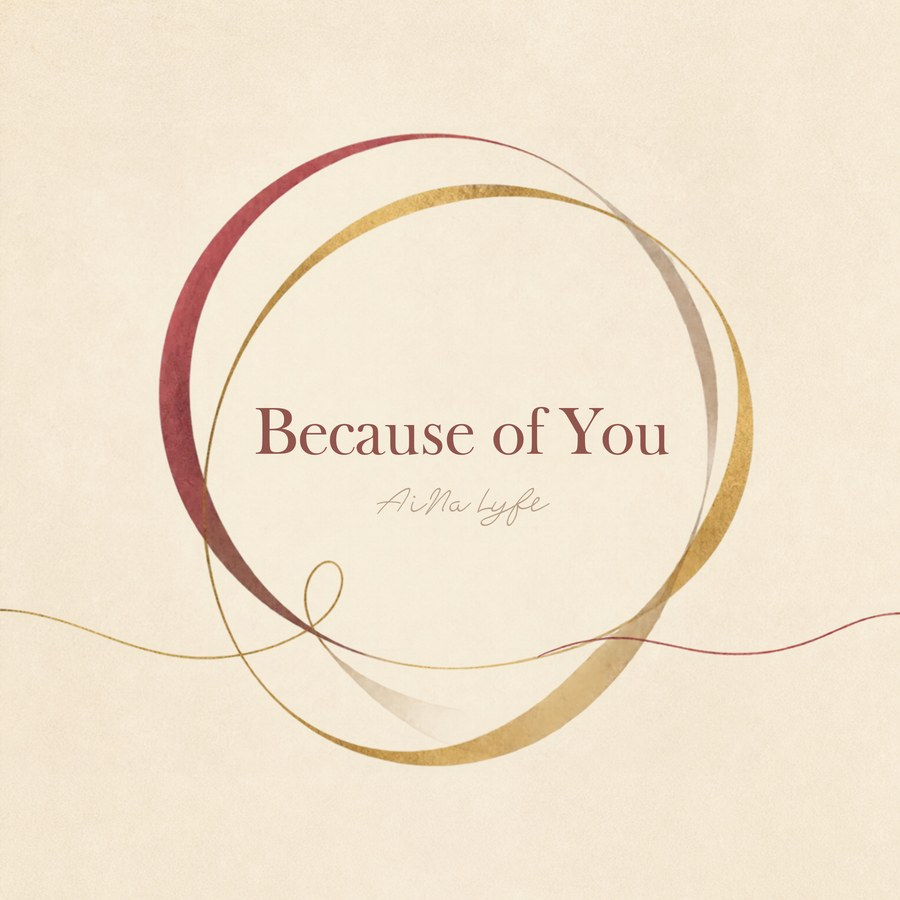
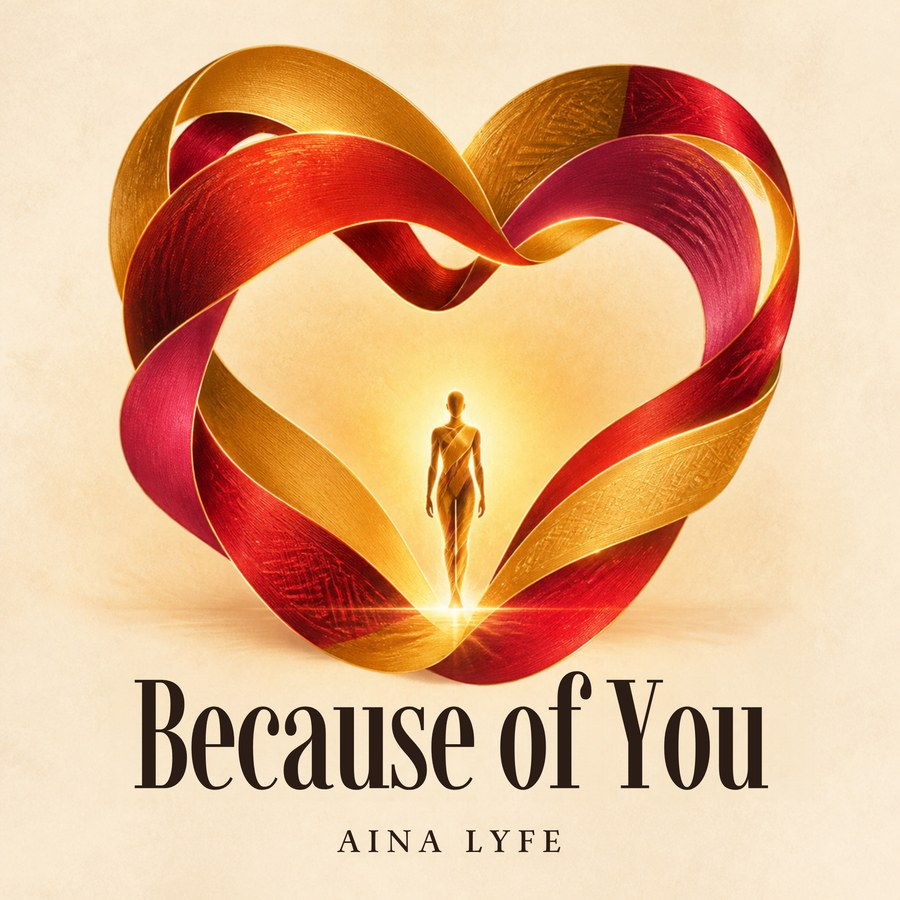
New bold album covers and home page tile covers

diff --git a/index.html b/index.html
@@ -7,11 +7,11 @@
 <main><section class="hero"><svg class="mono" viewBox="0 0 200 200" role="img" aria-label="AL monogram"><circle cx="100" cy="100" r="94" fill="#101010" stroke="#F0C46C" stroke-width="8"/><circle cx="100" cy="100" r="80" fill="none" stroke="#F0C46C" stroke-width="2"/><g font-family="Liberation Serif,Times New Roman,serif" font-weight="700" text-anchor="middle"><text x="82" y="128" font-size="104" fill="#F0C46C">A</text><text x="122" y="144" font-size="78" fill="#F0C46C" stroke="#101010" stroke-width="8" paint-order="stroke" stroke-linejoin="round">L</text></g></svg><h1>AiNa Lyfe</h1><p class="tagline">A little life lesson. No skip.</p><p class="credit">Words by David, voices by AI.</p></section>
 <p style="text-align:center">Pick an album. Start at the first song.</p>
 <div class="albums">
-<a class="album" href="/stages-not-ages/"><strong>Stages Not Ages</strong><span>Nine songs that walk through the stages of a whole life, from a baby in someone's arms to a very old age.</span><span class="go">Open album &rarr;</span></a>
-<a class="album" href="/becoming/"><strong>Becoming</strong><span>One girl. Twelve songs. One story, told in order.</span><span class="go">Open album &rarr;</span></a>
-<a class="album" href="/because-of-you/"><strong>Because of You</strong><span>Songs for the people who shaped me. Two so far, with room for more.</span><span class="go">Open album &rarr;</span></a>
-<a class="album" href="/listen-to-your-heart/"><strong>Listen To Your Heart</strong><span>Three songs, each in two versions: one for him, one for her.</span><span class="go">Open album &rarr;</span></a>
-<a class="album" href="/parenting-by-design/"><strong>Parenting by Design</strong><span>Songs for parents, and for anyone who may become one.</span><span class="go">Open album &rarr;</span></a>
+<a class="album" href="/stages-not-ages/"><img class="tile" src="/assets/covers/stages-not-ages-tile.jpg" alt="Stages Not Ages album cover" width="96" height="96" loading="lazy"><div class="tt"><strong>Stages Not Ages</strong><span>Nine songs that walk through the stages of a whole life, from a baby in someone's arms to a very old age.</span><span class="go">Open album &rarr;</span></div></a>
+<a class="album" href="/becoming/"><img class="tile" src="/assets/covers/becoming-tile.jpg" alt="Becoming album cover" width="96" height="96" loading="lazy"><div class="tt"><strong>Becoming</strong><span>One girl. Twelve songs. One story, told in order.</span><span class="go">Open album &rarr;</span></div></a>
+<a class="album" href="/because-of-you/"><img class="tile" src="/assets/covers/because-of-you-tile.jpg" alt="Because of You album cover" width="96" height="96" loading="lazy"><div class="tt"><strong>Because of You</strong><span>Songs for the people who shaped me. Two so far, with room for more.</span><span class="go">Open album &rarr;</span></div></a>
+<a class="album" href="/listen-to-your-heart/"><img class="tile" src="/assets/covers/listen-to-your-heart-tile.jpg" alt="Listen To Your Heart album cover" width="96" height="96" loading="lazy"><div class="tt"><strong>Listen To Your Heart</strong><span>Three songs, each in two versions: one for him, one for her.</span><span class="go">Open album &rarr;</span></div></a>
+<a class="album" href="/parenting-by-design/"><img class="tile" src="/assets/covers/parenting-by-design-tile.jpg" alt="Parenting by Design album cover" width="96" height="96" loading="lazy"><div class="tt"><strong>Parenting by Design</strong><span>Songs for parents, and for anyone who may become one.</span><span class="go">Open album &rarr;</span></div></a>
 </div>
 <details><summary>About the Music</summary><div class="inner"><p>AiNa Lyfe makes songs that each carry one small life lesson. The songs come in albums, and each album is a story you can follow from the first song to the last.</p>
 <p>They are written for teenagers, and for the adults who love them. The stories are told with care, and without blame.</p>

diff --git a/assets/style.css b/assets/style.css
@@ -60,3 +60,5 @@ footer p{margin:.3em 0}
 .lyrics-index h2{margin-top:1.4em}
 .lyrics-index ul{list-style:none;padding:0}
 .lyrics-index li{padding:5px 0}
+
+.album{display:flex;gap:16px;align-items:center}.album .tile{flex:0 0 96px;width:96px;height:96px;border-radius:10px;object-fit:cover}.album .tt{flex:1;min-width:0}
